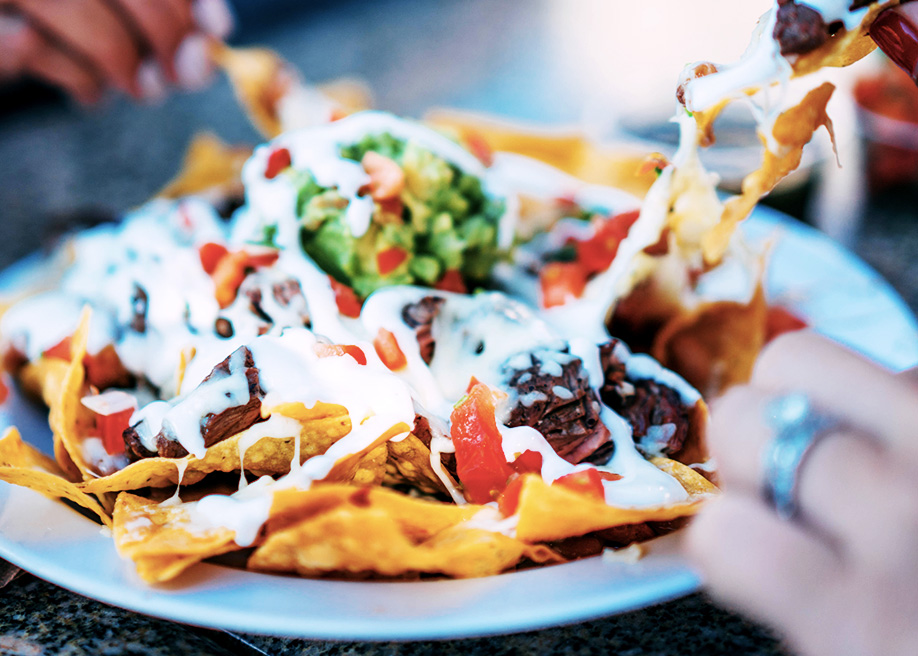
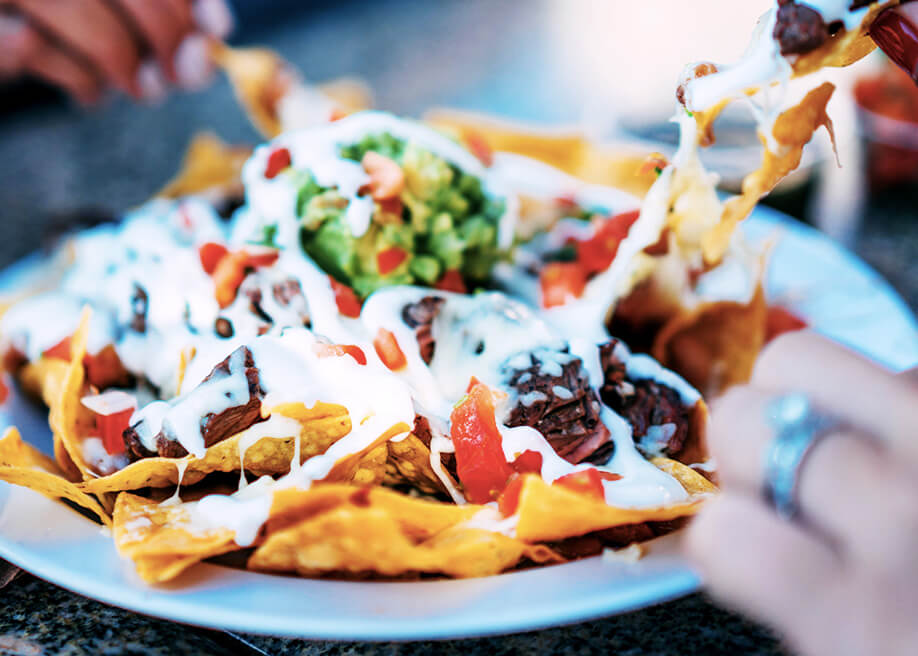
compress image size using tiny png

diff --git a/articleDetails.html b/articleDetails.html
@@ -113,7 +113,7 @@
             <ul class="nav navbar-nav">
                 <li><a href="index.html">Shop</a></li>
                 <li class="active"><a href="articles.html">Articles</a></li>
-                <li><a href="#">How to Order</a></li>
+                <li><a href="merchantGuide.html">Chef Guide</a></li>
                 <li class="dropdown">
                     <a href="#" class="dropdown-toggle" data-toggle="dropdown" role="button" aria-haspopup="true" aria-expanded="false">Location <span class="caret"></span></a>
                     <ul class="dropdown-menu">

diff --git a/README.md b/README.md
@@ -29,6 +29,8 @@
 - tipue search
 - shop the articles
 - metainfo article
+- merchant list
+- contact us
 
 ### done
 - article list
